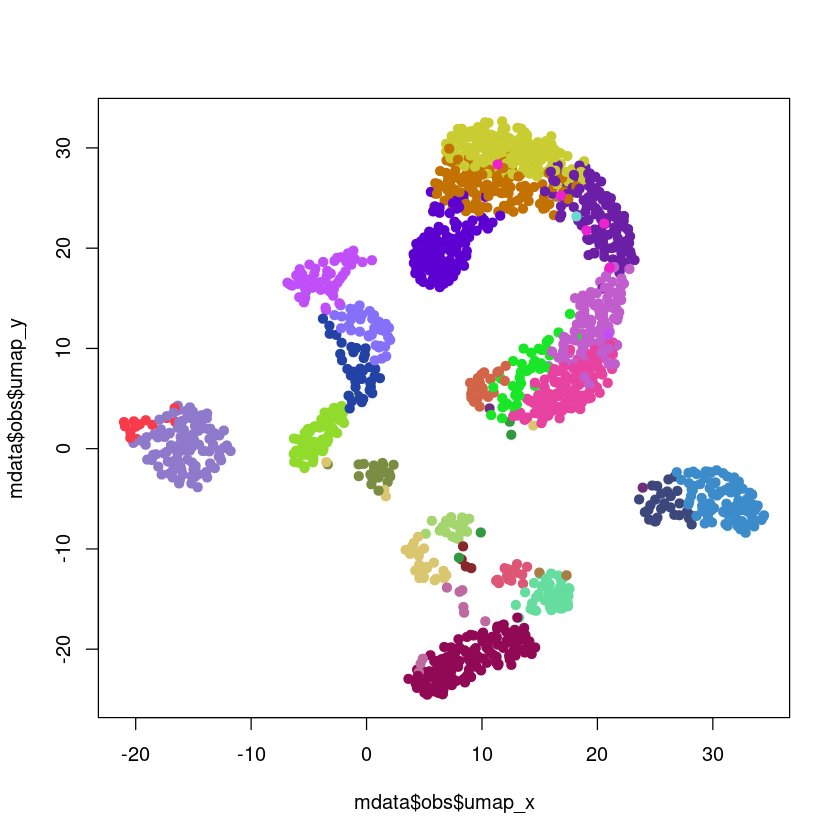
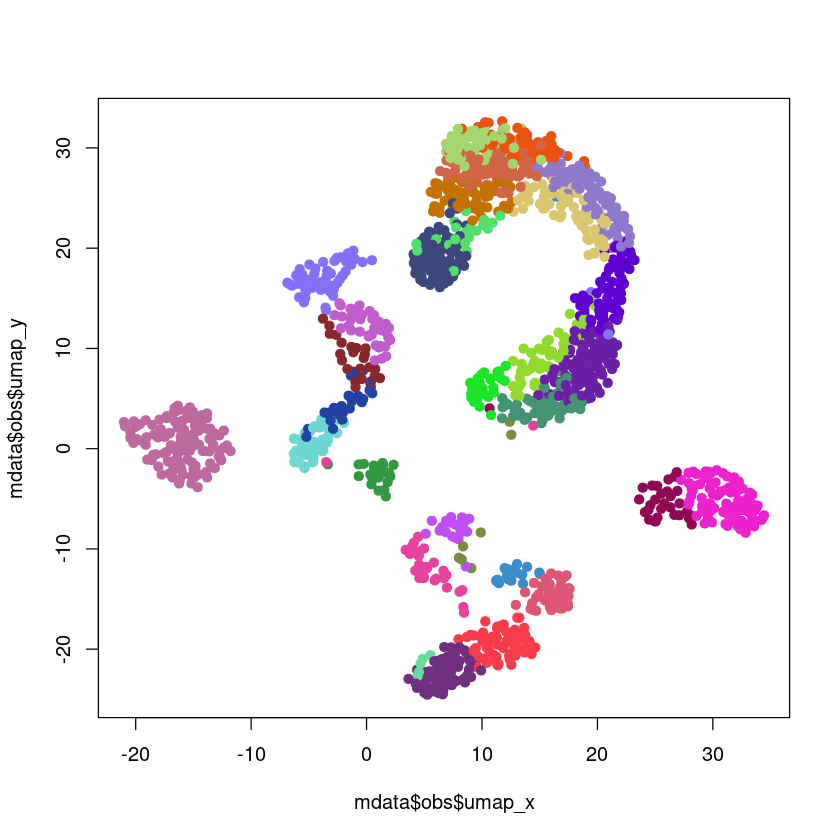
Use feature genes in vignette.

diff --git a/docs/source/Manual Analysis.rst b/docs/source/Manual Analysis.rst
@@ -61,25 +61,19 @@ than the number of metacells to help us detect internal structure. We
 have chosen K=32 for this example.
 
 We also need to decide on how to compute distances between metacells for
-the clustering. Here we chose to only look at “interesting” genes which
-are not in the forbidden genes list, and use the log of each such
-interesting gene expression (fraction in each cell). Again, other
-methods are also possible, as long as we generate reasonable quality
-clusters.
+the clustering. Here we chose to only look at the top feature genes (as
+selected for the UMAP projection the basic metacells vignette), and use
+the log of each such feature gene expression (fraction in each cell).
+Again, other methods are also possible, as long as we generate
+reasonable quality clusters.
 
 .. code:: r
 
     umis <- as.matrix(mdata$X)
     fractions <- umis / rowSums(umis)
     log_fractions <- log2(1e-5 + fractions)
-    genes_max <- apply(log_fractions, 2, max)
-    genes_min <- apply(log_fractions, 2, min)
-    genes_mask <- (genes_max - genes_min) > 3 & genes_max > -12
-    names(genes_mask) <- mdata$var_names
-    forbidden_genes <- as.character(t(read.table('forbidden_gene_names.txt')))
-    genes_mask[forbidden_genes] <- FALSE
-    interesting_log_fractions <- log_fractions[,genes_mask]
-    dim(interesting_log_fractions)
+    feature_log_fractions <- log_fractions[,mdata$var$top_feature_gene]
+    dim(feature_log_fractions)
 
 
 
@@ -90,18 +84,18 @@ clusters.
     .list-inline>li {display: inline-block}
     .list-inline>li:not(:last-child)::after {content: "\00b7"; padding: 0 .5ex}
     </style>
-    <ol class=list-inline><li>1542</li><li>1930</li></ol>
+    <ol class=list-inline><li>1542</li><li>622</li></ol>
 
 
 
-This has given us a matrix of 1542 metacells and 1930 genes expression
+This has given us a matrix of 1542 metacells and 622 genes expression
 levels in each one. We can now use this to cluster the metacells into
 coarse groups:
 
 .. code:: r
 
     set.seed(123456)
-    k_means <- stats::kmeans(log_fractions, centers=32)
+    k_means <- stats::kmeans(feature_log_fractions, centers=32)
     cluster_of_metacells <- as.integer(k_means$cluster)
     mdata$obs$cluster <- cluster_of_metacells
 
@@ -114,7 +108,7 @@ structure, using the same interesting genes.
 
 .. code:: r
 
-    color_of_clusters <- data_colors(interesting_log_fractions, group=mdata$obs$cluster)
+    color_of_clusters <- data_colors(feature_log_fractions, group=mdata$obs$cluster)
 
 For example, we can use these colors to display the 2D UMAP projection
 computed by the basic metacells vignette:

diff --git a/docs/source/Metacells Vignette.rst b/docs/source/Metacells Vignette.rst
@@ -535,8 +535,9 @@ single-threaded implementation.
 
 
 This filled in ``umap_x`` and ``umap_y`` per-metacell (observation)
-annotations, which can be used to generate 2D projectiondiagrams.
-Typically such diagrams use additional metadata (such as type
+annotations, which can be used to generate 2D projection diagrams (it
+also filled in a boolean ``top_feature_gene`` mask designating the genes
+used). Typically such diagrams use additional metadata (such as type
 annotations) to color the points, but here we just show the raw
 projection:
 
